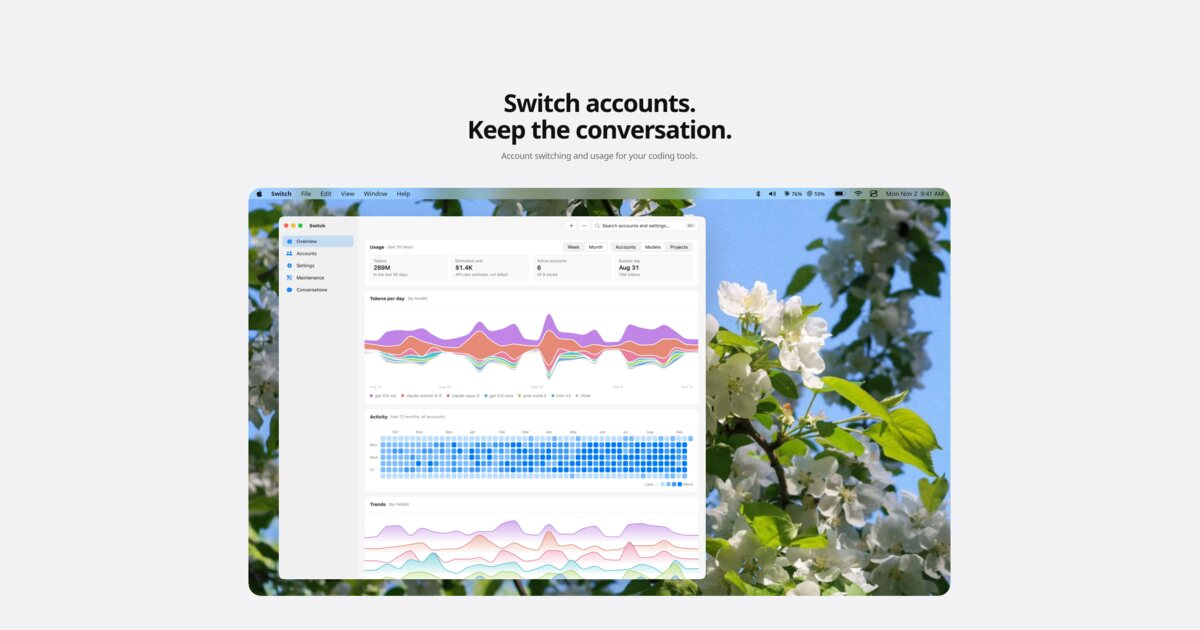
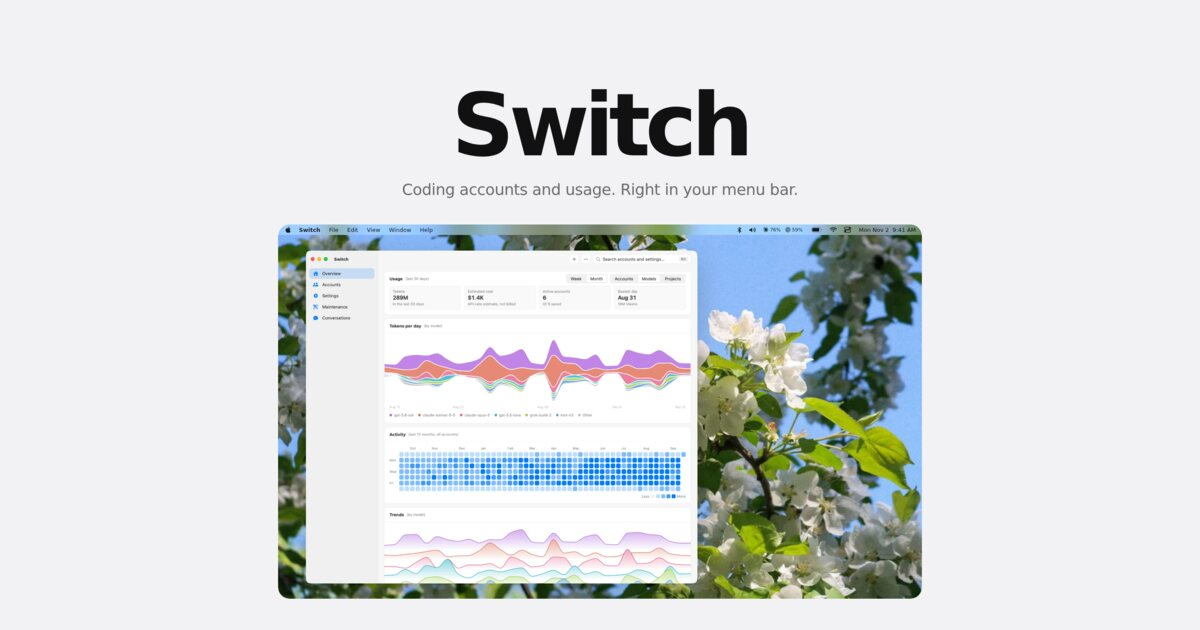
Publish the final Monument README cover

Changed region(s): [[0.185, 0.1206, 0.8017, 0.9651]]

diff --git a/packages/website/public/index.html b/packages/website/public/index.html
@@ -13,7 +13,7 @@
 <meta property="og:url" content="https://switch.mandalsuraj.com/">
 <meta property="og:title" content="Switch: change saved coding accounts">
 <meta property="og:description" content="Change coding accounts and keep your local conversations. Save logins for supported tools and check usage from your Mac's menu bar.">
-<meta property="og:image" content="https://switch.mandalsuraj.com/assets/og.jpg">
+<meta property="og:image" content="https://switch.mandalsuraj.com/assets/og.jpg?v=monument">
 <meta name="twitter:card" content="summary_large_image">
 <link rel="stylesheet" href="kit.css">
 <link rel="stylesheet" href="b.css">

diff --git a/docs/development.md b/docs/development.md
@@ -175,14 +175,17 @@ Update the script's pinned versions only after publishing matching assets.
 
 ## README cover
 
-Compare cover options before exporting: `node packages/website/cover-lab.cjs --serve`.
-It serves a local preview at `http://127.0.0.1:8847` for up to eight hours.
-The generated HTML is self-contained; favorites, ratings, and notes stay in the browser.
-Choose a design in the lab before replacing the public README cover.
-
-The cover uses the approved Clear center scene from `cover-lab-scene.cjs`, shared with the lab.
+The final cover is Monument: a centered 200px/800 wordmark and 36px subtitle.
+Its wording is "Switch" and "Coding accounts and usage. Right in your menu bar."
+The owner closed the design rounds. Keep this selection until explicitly asked to change it.
+On Lin1, use the approved fonts through the process-only
+`FONTCONFIG_FILE=/mnt/nvme1/data/switch/cover-fonts/fonts.conf` setting.
+This profile matches the selected preview without changing the machine's font settings.
+The exporter checks the approved title and subtitle widths to reject a different font fallback.
+The exporter uses `cover-lab-scene.cjs`. Run `node packages/website/cover-lab.cjs --serve`
+to view the final exported PNG and GIF locally; the viewer embeds both files for offline use.
 It records the website's menu bar demo inside that light poster. On the
-rendering host, run `node packages/website/export-cover.cjs --gif` from the
+rendering host, run `FONTCONFIG_FILE=/mnt/nvme1/data/switch/cover-fonts/fonts.conf node packages/website/export-cover.cjs --gif` from the
 repository root to create the GIF and static reduced-motion fallback.
 Only the area outside the cover's 6px corners is transparent. Its padding keeps the light background.
 It uses the existing Playwright installation under `packages/mac-gui/ui-lint`;

diff --git a/specs/product.md b/specs/product.md
@@ -498,7 +498,7 @@ without privileges or writes. Public releases are Developer ID signed and notari
 
 Build and validate Mac archives locally; upload from the Mac, not Actions.
 README uses site styling, real screenshots, short copy, limits, and current downloads.
-Cover: Clear center; Brand/Poster type open. Keep glyphs, light fill, 6px cutouts, demo/still.
+Cover final: Monument200/800, subtitle36. No more rounds. Keep glyphs, light fill, 6px cutouts, demo/still.
 Collapse requirements. One command installs Mac app/CLI or Linux CLI; check hashes.
 Site hero: "Keep your local conversations." About links to mandalsuraj.com.
 

diff --git a/README.md b/README.md
@@ -1,7 +1,7 @@
 <p align="center">
   <picture>
-    <source media="(prefers-reduced-motion: reduce)" srcset="docs/screenshots/cover-clear-center.png">
-    <img src="docs/screenshots/cover-clear-center.gif" alt="Switch accounts. Keep the conversation. A menu bar demo shows account switching." width="100%">
+    <source media="(prefers-reduced-motion: reduce)" srcset="docs/screenshots/cover-monument.png">
+    <img src="docs/screenshots/cover-monument.gif" alt="Switch. Coding accounts and usage, right in your menu bar. A demo shows account switching." width="100%">
   </picture>
 </p>
 
